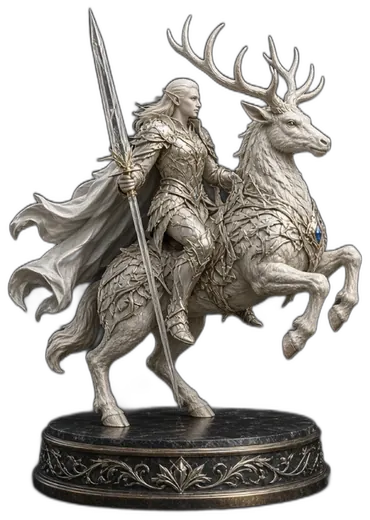
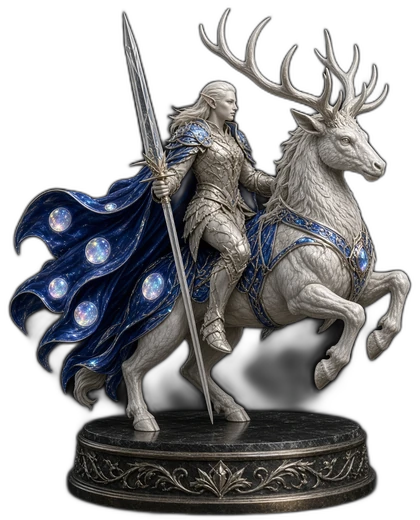
Paint the Elves Nightgrove — silver and sapphire

diff --git a/src/lib/chess/catalog.ts b/src/lib/chess/catalog.ts
@@ -99,7 +99,7 @@ export const FACTIONS: Faction[] = [
   {
     id: "elves",
     name: "Elves",
-    epithet: "the Grove",
+    epithet: "the Nightgrove",
     family: "Grove",
     dir: "grove",
     ext: "webp",
